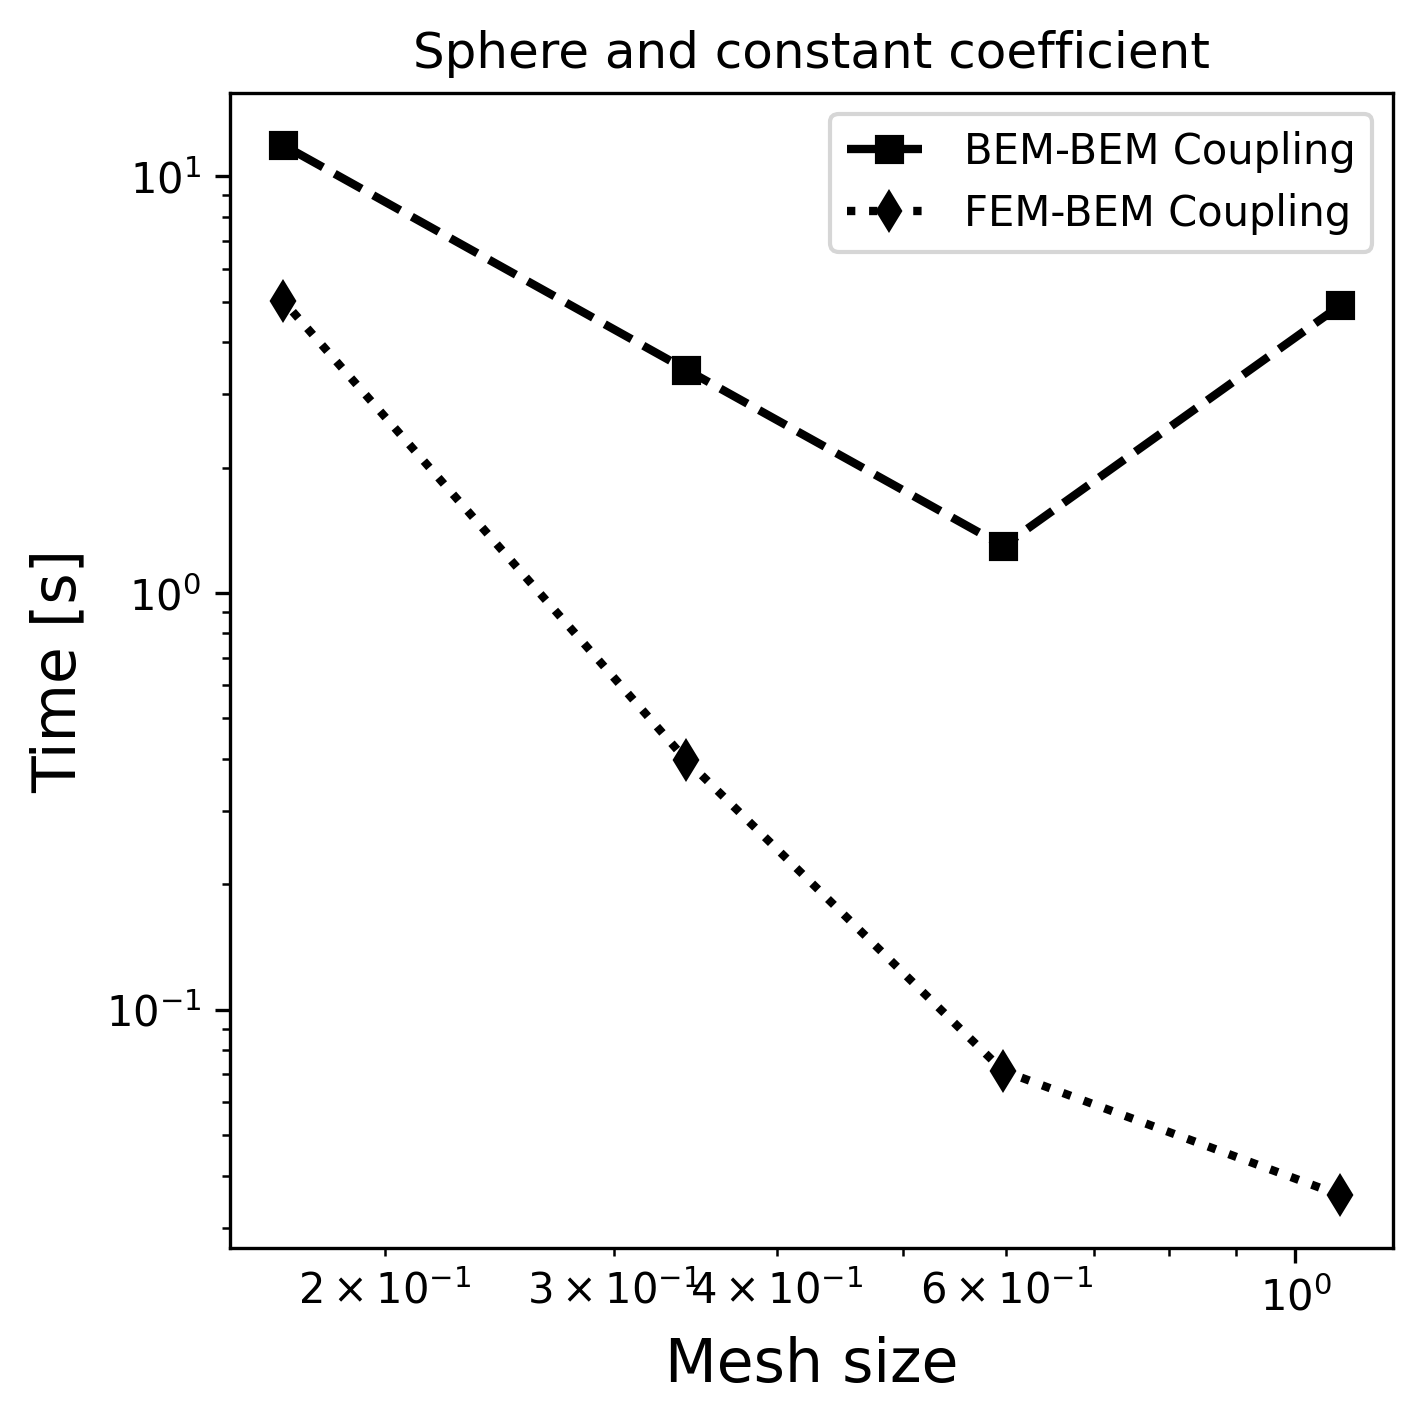
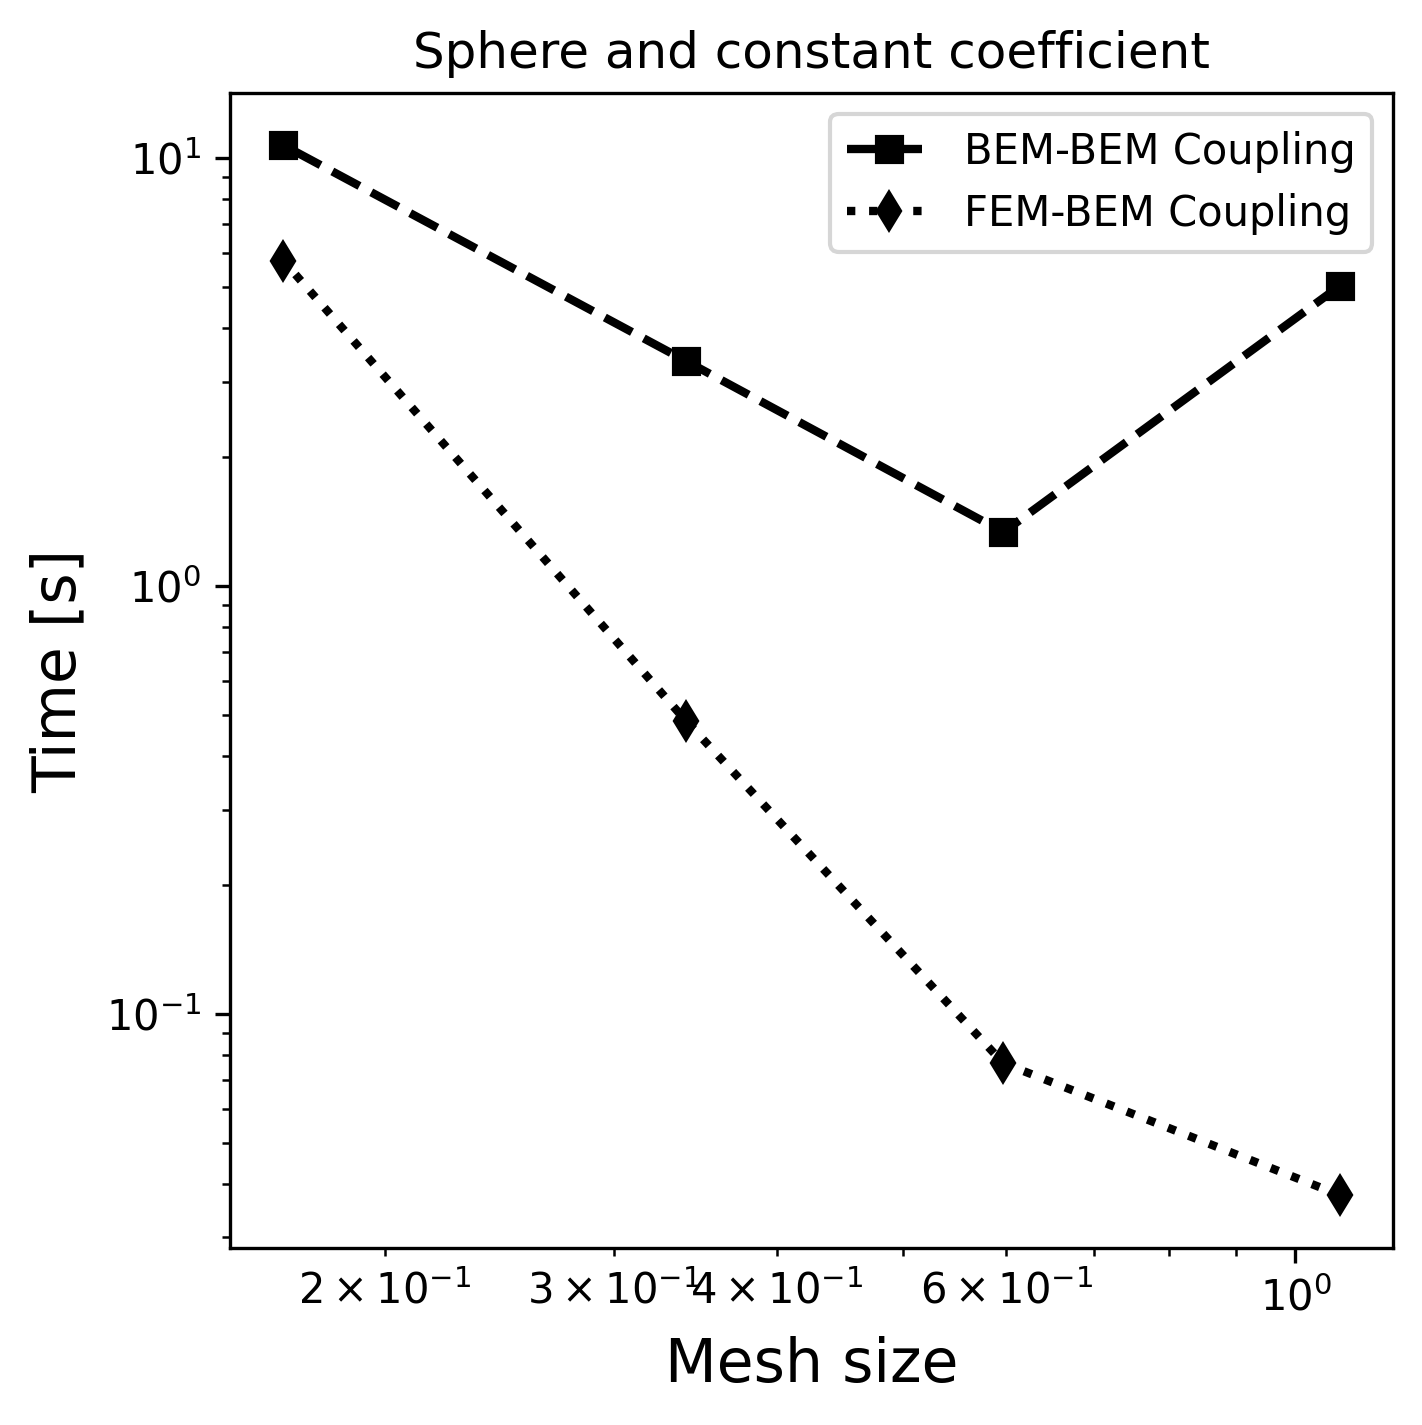
DolfinX version
Updated version with DolfinX results, still we need to decide with Arginine test we consider!
We are missing large scale problem results!

diff --git a/results.tex b/results.tex
@@ -18,7 +18,7 @@ Docker images containing FEniCSx, Bempp-cl, and Exafmm-t are publicly available 
 
 \section*{\sffamily \Large Results with constant permitivitty}
 
-In implicit-solvent models, the molecule is usually considered as a region with constant permittivity, in this case, with $\epsilon_1=4$.
+In implicit-solvent models, the molecule is usually considered as a region with constant permittivity, in this case, with $\epsilon_1=2$.
 In the solvent region, we used the permittivity of water ($\epsilon_2$=80) and an inverse of the Debye length of $\kappa=0.125$ \AA$^{-1}$.
 As in these cases there is an analytical solution for $\phi_c$ in Eq. \eqref{eq:phic}, we compute $\phi_r$ with Eq. \eqref{eq:phi_reac} in both BEM-BEM and FEM-BEM coupling approaches. Then, for FEM-BEM, the integral over $\Gamma$ in Eq. \eqref{eq:phi_reac} corresponds to the trace of the solution vector.
 
@@ -36,16 +36,14 @@ The error in Figure \ref{fig:error_sphere} decays linearly with the surface area
 
 \begin{figure}
   \centering
-  \includegraphics[width=0.6\linewidth]{Sphere_const_coeff_error.png}
-%   \includegraphics[width=0.45\linewidth]{Sphere_const_coeff_iter.png}
-%   \includegraphics[width=0.45\linewidth]{Sphere_const_coeff_time.png}
+  \includegraphics[width=0.6\linewidth]{DolfinX_Sphere_const_coeff_error.png}
   \caption{Error for the Kirkwood sphere.}
   \label{fig:error_sphere}
 \end{figure}
 
 \subsection*{\sffamily \large Performance with arginine}
 
-As a more realistic test, we assessed the performance of the FEM-BEM coupling technique against a purely BEM implementation for arginine (the structure of arginine taken from the protein data bank \cite{bank}). 
+As a more realistic test, we assessed the performance of the FEM-BEM coupling technique against a purely BEM implementation for arginine (the structure of arginine taken from the protein data bank \cite{bank} {\color{red} We are using different ARG!}). 
 We generated surface meshes containing W, X, Y, and Z vertices per \AA$^2$ with Nanoshaper.~\cite{decherchi2013general}
 These meshes were inputs to our purely BEM solver, and to create the FEM mesh with pyGAMer,~\cite{lee2020open} which invoked \texttt{tetgen} [citation] with the string \texttt{abcd}.
 
@@ -55,9 +53,9 @@ Then, Figure \ref{fig:arg_constant_time_iter} compares the iteration count and t
 
 \begin{figure}
 \centering
-   \includegraphics[width=0.6\linewidth]{Arginine_const_coeff_error_11.png}
-%    \includegraphics[width=0.45\linewidth]{No_prec_Arginine_const_coeff_error.png}
-\caption{Solvation energy for arginine with a constant permittivity.
+   \includegraphics[width=0.47\linewidth]{DolfinX_Arginine2_const_coeff_error.png}
+   \includegraphics[width=0.47\linewidth]{DolfinX_Arginine_const_coeff_error_11.png}
+\caption{Solvation energy for arginine with a constant permittivity. (left - Arginine2 and right - Arginine)
 %maybe we could also add a "error" wrt extrapolation, or a plot with energy for each mesh?
 }
 \label{fig:arg_constant_energy}
@@ -65,11 +63,32 @@ Then, Figure \ref{fig:arg_constant_time_iter} compares the iteration count and t
 
 \begin{figure}
 \centering
-   \includegraphics[width=0.45\linewidth]{Arginine_const_coeff_iter_11.png}
-%  \includegraphics[width=0.45\linewidth]{Arginine_const_coeff_time_11.png}
-%  \includegraphics[width=0.45\linewidth]{Arginine_const_coeff_setup_time_11.png}
-  \includegraphics[width=0.45\linewidth]{Arginine_const_coeff_total_time_11.png}
-  \caption{Iteration count (left) and time-to-solution (right) for arginine with a constant permittivity. %(left: Online time taken to solve systems, right: Offline time taken to set up systems). 
+   \includegraphics[width=0.45\linewidth]{DolfinX_Arginine2_const_coeff_iter.png}
+%  \includegraphics[width=0.45\linewidth]{DolfinX_Arginine2_const_coeff_time.png}
+%  \includegraphics[width=0.45\linewidth]{DolfinX_Arginine2_const_coeff_setup_time.png}
+  \includegraphics[width=0.45\linewidth]{DolfinX_Arginine2_const_coeff_total_time.png}
+%   \includegraphics[width=0.45\linewidth]{DolfinX_Arginine_const_coeff_iter_11.png}
+%%  \includegraphics[width=0.45\linewidth]{DolfinX_Arginine_const_coeff_time_11.png}
+%%  \includegraphics[width=0.45\linewidth]{DolfinX_Arginine_const_coeff_setup_time_11.png}
+%  \includegraphics[width=0.45\linewidth]{DolfinX_Arginine_const_coeff_total_time_11.png}
+  \caption{Iteration count (left) and time-to-solution (right) for Arginine2 with a constant permittivity. %(left: Online time taken to solve systems, right: Offline time taken to set up systems). 
+%NOTE: x axis differ between top and bottom. Also, should we include preconditioned vs non preconditioned? We could easily precondition BEM-BEM too.  %(1) fix title, (2) can we put them in a single plot, (3) 
+%maybe we could also add a "error" wrt extrapolation, or a plot with energy for each mesh?
+}
+\label{fig:arg2_constant_time_iter}
+\end{figure}
+
+\begin{figure}
+\centering
+%   \includegraphics[width=0.45\linewidth]{DolfinX_Arginine2_const_coeff_iter.png}
+%%  \includegraphics[width=0.45\linewidth]{DolfinX_Arginine2_const_coeff_time.png}
+%%  \includegraphics[width=0.45\linewidth]{DolfinX_Arginine2_const_coeff_setup_time.png}
+%  \includegraphics[width=0.45\linewidth]{DolfinX_Arginine2_const_coeff_total_time.png}
+   \includegraphics[width=0.45\linewidth]{DolfinX_Arginine_const_coeff_iter_11.png}
+%  \includegraphics[width=0.45\linewidth]{DolfinX_Arginine_const_coeff_time_11.png}
+%  \includegraphics[width=0.45\linewidth]{DolfinX_Arginine_const_coeff_setup_time_11.png}
+  \includegraphics[width=0.45\linewidth]{DolfinX_Arginine_const_coeff_total_time_11.png}
+  \caption{Iteration count (left) and time-to-solution (right) for Arginine with a constant permittivity. %(left: Online time taken to solve systems, right: Offline time taken to set up systems). 
 %NOTE: x axis differ between top and bottom. Also, should we include preconditioned vs non preconditioned? We could easily precondition BEM-BEM too.  %(1) fix title, (2) can we put them in a single plot, (3) 
 %maybe we could also add a "error" wrt extrapolation, or a plot with energy for each mesh?
 }
@@ -108,8 +127,8 @@ where the product runs over all the atoms of the solute, $R_i$ is the van der Wa
 \epsilon := \left(1-\rho \right) \epsilon_1 + \rho\epsilon_2
 \end{equation}
 
-As $\epsilon_2$ is variable, Equation \eqref{eq:phic} does not have an analytical solution, and the electrostatic potential in vacuum state has to be computed numerically.
-For vacuum calculations, we considered the same distribution of $\epsilon_2$ inside the molecule as in the solvated case, but the solvent permittivity was set to $\epsilon$=2. 
+As $\epsilon$ is variable, Equation \eqref{eq:phic} does not have an analytical solution, and the electrostatic potential in the vacuum state has to be computed numerically.
+For vacuum calculations, we considered the same distribution of $\epsilon$ inside the molecule as in the solvated case, but the solvent permittivity was set to $\epsilon_2$=2. 
 Other implementations of Gaussian permittivities also modify the solute permittivity in vacuum calculations, according to a set cutoff.\cite{li2013dielectric} We did not consider a cutoff in our calculations.
 
 
@@ -120,7 +139,7 @@ We chose APBS because it provides an easy interface to control dielectric maps, 
 
 Table \ref{table:arg_variable} shows a comparison of solvation energy computed with APBS and our FEM-BEM coupling approach. We can see that they are both converging to equivalent values, where the finest meshes agree up to 1.5\% (0.5 kcal/mol).
 
-Figure \ref{fig:arg_variable} contains performance results of this test case, where we distinguish the iteration count from the calculation in dissolved and vacuum states. 
+Figure \ref{fig:arg_variable} contains the performance results of this test case, where we distinguish the iteration count from the calculation in dissolved and vacuum states. 
 
 \begin{table}
 \centering
@@ -128,19 +147,21 @@ Figure \ref{fig:arg_variable} contains performance results of this test case, wh
 &Mesh size & $\Delta G_{solv}$\\
 &\AA       &  kcal/mol \\
 \hline
-\multirow{4}{*}{APBS}& 0.52$\times$0.52$\times$0.52 & -32.4652\\ 
-& 0.39$\times$0.39$\times$0.39 & -32.4042\\ 
-&0.26$\times$0.26$\times$0.26 & -32.3375\\ 
-&0.17$\times$0.17$\times$0.17 & -32.3413\\ 
+\multirow{4}{*}{APBS}& 0.52$\times$0.52$\times$0.52 & -107.6186 \\ 
+& 0.39$\times$0.39$\times$0.39 & -107.8752\\ 
+&0.26$\times$0.26$\times$0.26 & -108.3378\\ 
+&0.195$\times$0.195$\times$0.195 & -108.5837\\ 
+&0.098$\times$0.098$\times$0.098 & -108.8844\\ 
 \hline
 &Mesh dens. & \\
 &vert/\AA$^2$ & \\
 \hline
 %\multirow{5}{*}{Standard FEM-BEM}& 2 & -36.239\\
-    & 2 & -35.688 \\
-FEM-BEM    & 4  & -33.304 \\
-coupling    & 8  & -32.634 \\
-    & 16 & -31.868 \\
+    & 4.1 & -109.933 \\
+FEM-BEM    & 6.7  & -110.238 \\
+coupling    & 8.57  & -109.658 \\
+    & 17 & -109.368 \\
+    & 24.5 & -109.286 \\
 \hline
 %\multirow{5}{*}{Standard FEM-BEM}& 2 & -29.554\\
 %    & 2 & -34.670\\
